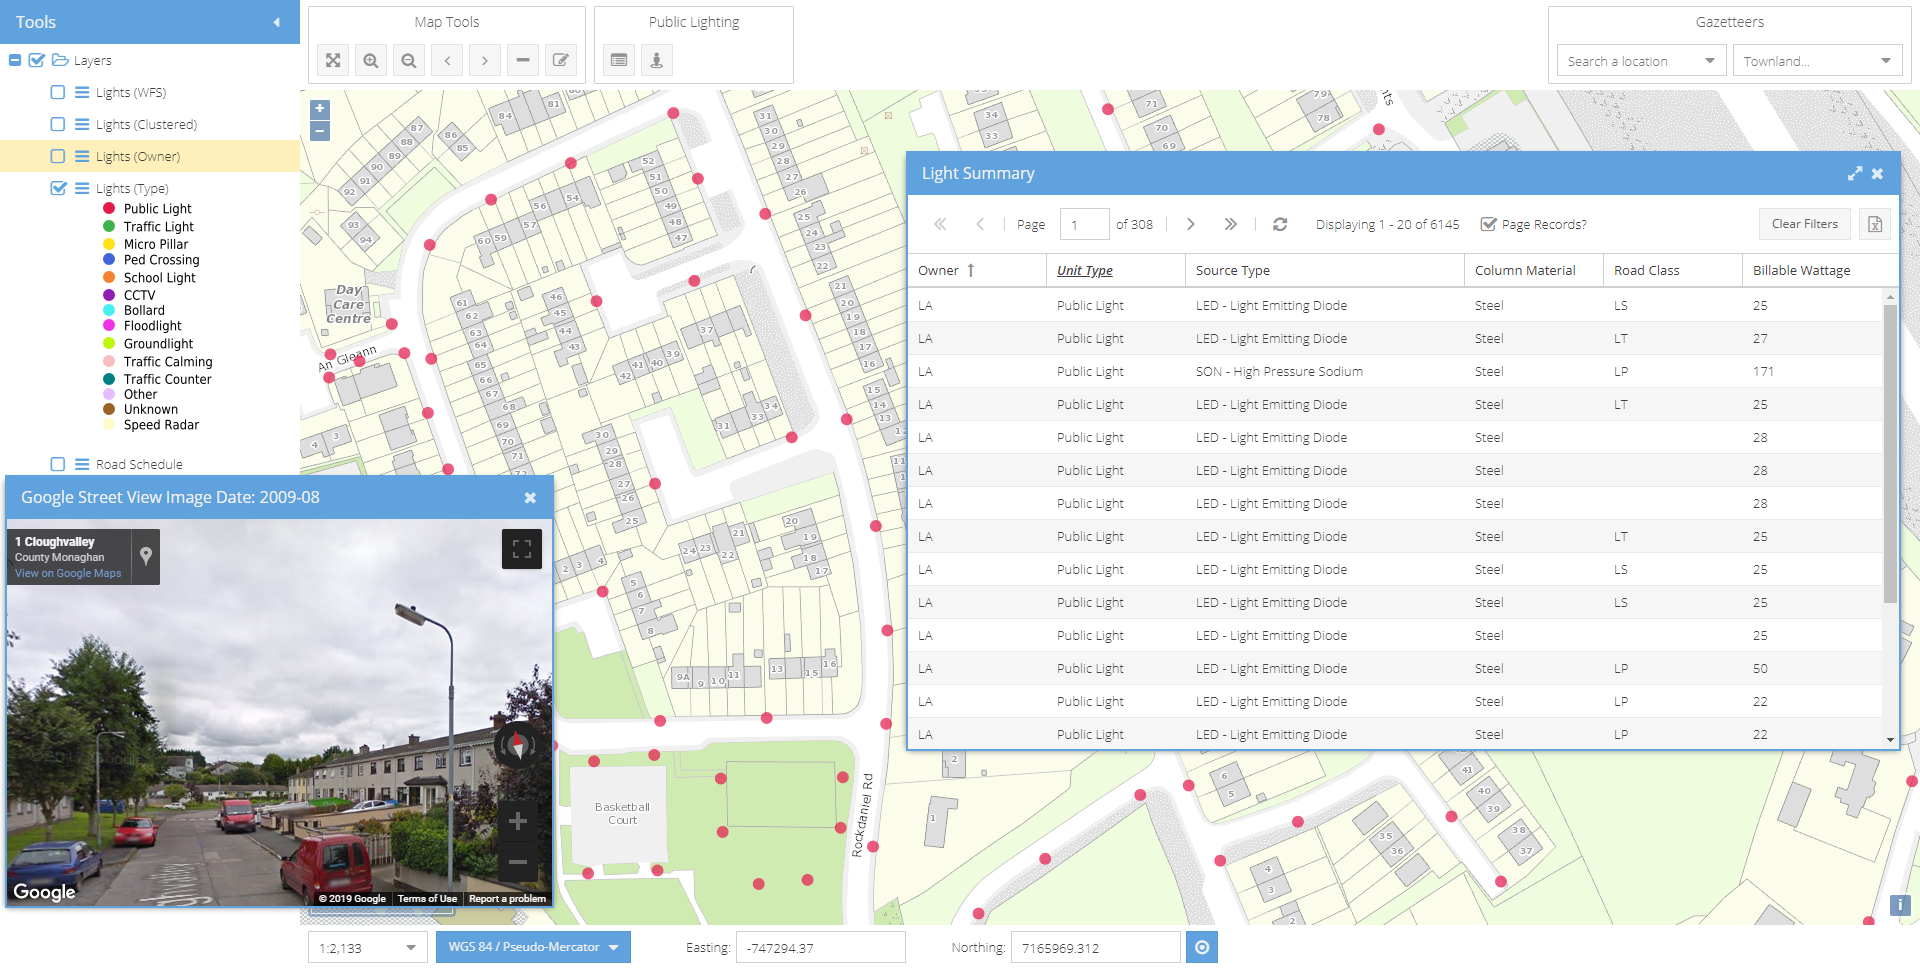
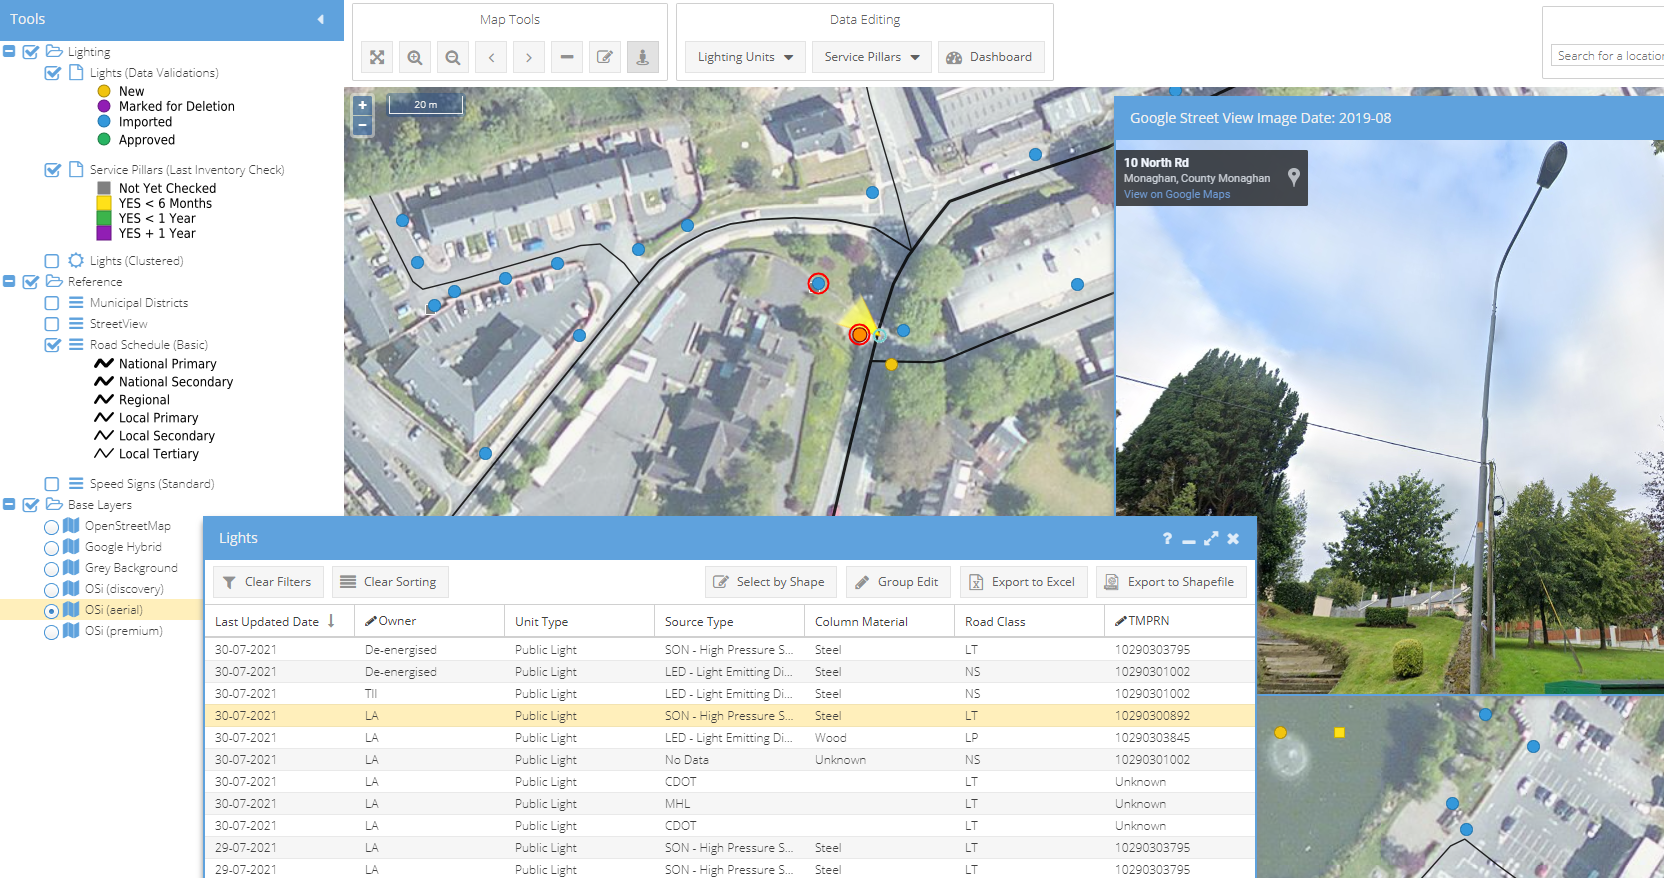
Add mapview slide and update example images

diff --git a/geoext/content/examples.html b/geoext/content/examples.html
@@ -10,25 +10,37 @@
         + Project to retrofit 326,000 public lights in Ireland with LEDs
         + Reduce costs to local authorities by €56m a year
         + A reliable database and mapping - number one priority
-        + Uses GeoExt v3 and ExtJS v6
+        + Uses GeoExt v4 and ExtJS v6
 
-        <a href="https://www.compass.ie"><img class="plain" src="images/compass-logo.png" style="background: none; height: 70px" /></a>
+        <a href="https://www.compass.ie"><img class="plain" src="images/compass-logo.svg" style="background: none; height: 70px" /></a>
     </script>
 </section>
-<section data-markdown data-background-color="#fff" data-background="images/public_lighting.png"></section>
+<section data-markdown data-background="images/public_lighting.png" data-background-size="80%"></section>
 <section data-markdown>
     <script type="text/template">
         ### Pavement Management System
 
         + Used by 31 local authorities in Ireland to manage local and regional roads
         + Original version used GeoExt v1 and ExtJS v2
-        + Current version using GeoExt v2 and ExtJS v4
-        + Updating to GeoExt v3 and ExtJS v6
+        + Current version using GeoExt v4 and ExtJS v6
 
-        <a href="https://www.compass.ie"><img class="plain" src="images/compass-logo.png" style="background: none; height: 70px" /></a>
+        <a href="https://www.compass.ie"><img class="plain" src="images/compass-logo.svg" style="background: none; height: 70px" /></a>
     </script>
 </section>
-<section data-markdown data-background-color="#fff" data-background="images/pms.png"></section>
+<section data-markdown data-background="images/pms.png" data-background-size="80%"></section>
+<section data-markdown>
+    <script type="text/template">
+        ### [GeoExt WFS Store](https://geoext.github.io/geoext/master/docs/#!/api/GeoExt.data.store.WfsFeatures) Based Grids
+
+        + Synced filtering of both grid and layer
+        + Both attribute and spatial filtering
+        + Paging of features
+        + Sorting
+        + Exports to Shapefile and Excel
+
+        <img class="plain" src="images/pms-grid.png" style="border-radius: 0.3em; padding: 0.3em; background-color: rgba(255,255,255,0.95); height: 250px" />
+    </script>
+</section>
 <section data-markdown>
     <script type="text/template">
         ### BfS Geoportal

diff --git a/geoext/content/around-geoext.html b/geoext/content/around-geoext.html
@@ -53,3 +53,13 @@
       <img class="plain" src="images/geostyler-geoext.png" style="background: none" />
   </script>
 </section>
+<section data-markdown>
+    <script type="text/template">
+        ### [Compass Informatics MapView](https://github.com/compassinformatics/cpsi-mapview)
+
+        * Builds on GeoExt, BasiGX, and GeoStyler
+        * Digitizing tools
+        * Layer tree plug-ins
+        * Demo application: https://compassinformatics.github.io/cpsi-mapview/
+    </script>
+</section>

diff --git a/geoext/content/introduction.html b/geoext/content/introduction.html
@@ -34,7 +34,7 @@
         <img class="profile-pic" src="images/sg.jpg" alt="Seth Girvin" />
 
         * [`sgirvin@compass.ie`](mailto:sgirvin@compass.ie), [<i class="fab fa-github"></i>`@geographika`](https://github.com/geographika), [<i class="fab fa-twitter"></i>`@geographika`](https://twitter.com/geographika)
-        * job title at Compass
+        * geospatial developer with Compass Informatics
 
     </script>
 </section>

diff --git a/geoext/content/outlook.html b/geoext/content/outlook.html
@@ -3,9 +3,9 @@
         ## Future Development
 
         + Upgrade to ExtJS v7
-        + Continuos upgrades of latest OpenLayers
+        + Continuous upgrades of latest OpenLayers
         + Own packaging tool (no Sencha CMD dependency)
-        + Bugfixing, Maintenance, ...
+        + Bug fixing, Maintenance, ...
 
         **Funding very welcome (even in whiskey, beer or wine) 😉**
     </script>
